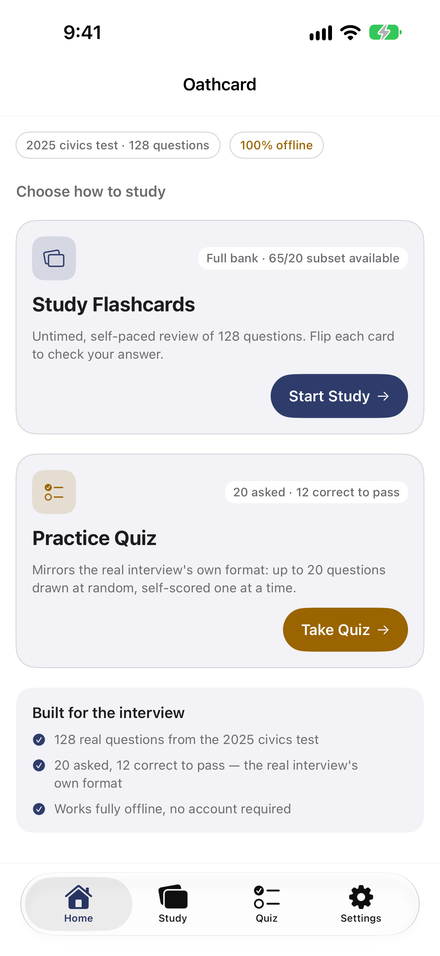
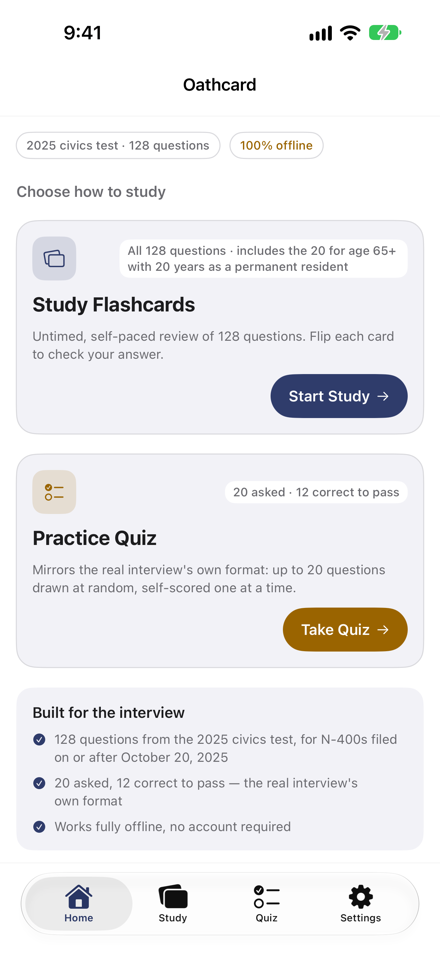
1.0.1 landing: screenshots from the host's 1.0.1 App Store shoot (civics-test-flashcards 9c1905c: Home, State Picker checked October 23, 2026, Practice Quiz)

diff --git a/index.html b/index.html
@@ -314,7 +314,7 @@
       <h2 id="shots-heading">See it</h2>
       <div style="display:flex;gap:16px;overflow-x:auto;padding:8px 0">
         <figure style="margin:0;flex:0 0 auto"><img src="screenshots/home.png" width="220" alt="Oathcard Home: Study Flashcards and Practice Quiz, 2025 civics test, 128 questions, 100% offline" loading="lazy" style="border-radius:16px"><figcaption class="secondary-text" style="font-size:14px">Study, quiz, and state officials.</figcaption></figure>
-        <figure style="margin:0;flex:0 0 auto"><img src="screenshots/state-officials.png" width="220" alt="State Picker showing California's governor and senators, checked October 18, 2026" loading="lazy" style="border-radius:16px"><figcaption class="secondary-text" style="font-size:14px">Officials dated—verifiable offline.</figcaption></figure>
+        <figure style="margin:0;flex:0 0 auto"><img src="screenshots/state-officials.png" width="220" alt="State Picker showing California's governor and senators, checked October 23, 2026" loading="lazy" style="border-radius:16px"><figcaption class="secondary-text" style="font-size:14px">Officials dated—verifiable offline.</figcaption></figure>
         <figure style="margin:0;flex:0 0 auto"><img src="screenshots/quiz.png" width="220" alt="Practice Quiz, question 1 of 20, accepted answer shown with I got it right and I got it wrong" loading="lazy" style="border-radius:16px"><figcaption class="secondary-text" style="font-size:14px">Practice 20-question interviews.</figcaption></figure>
       </div>
     </section>
